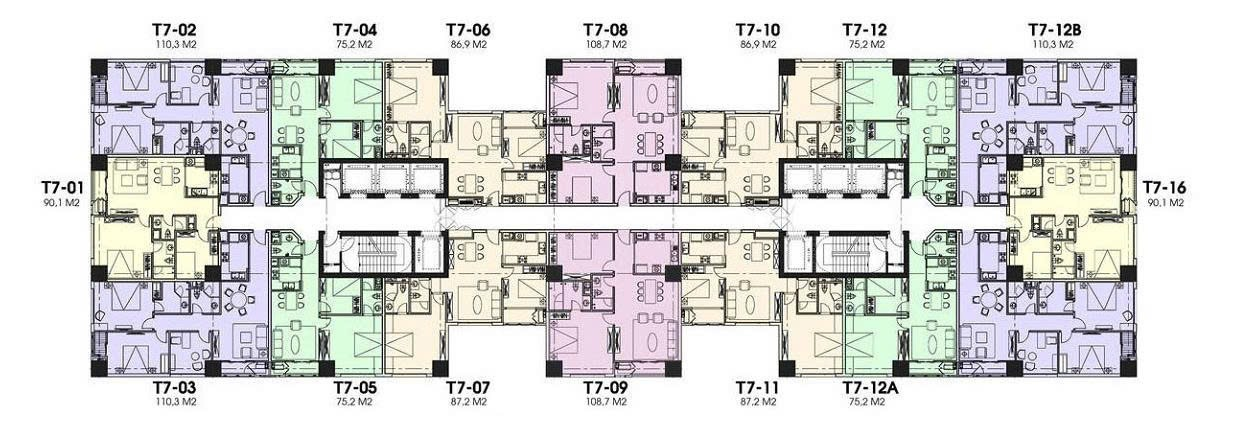
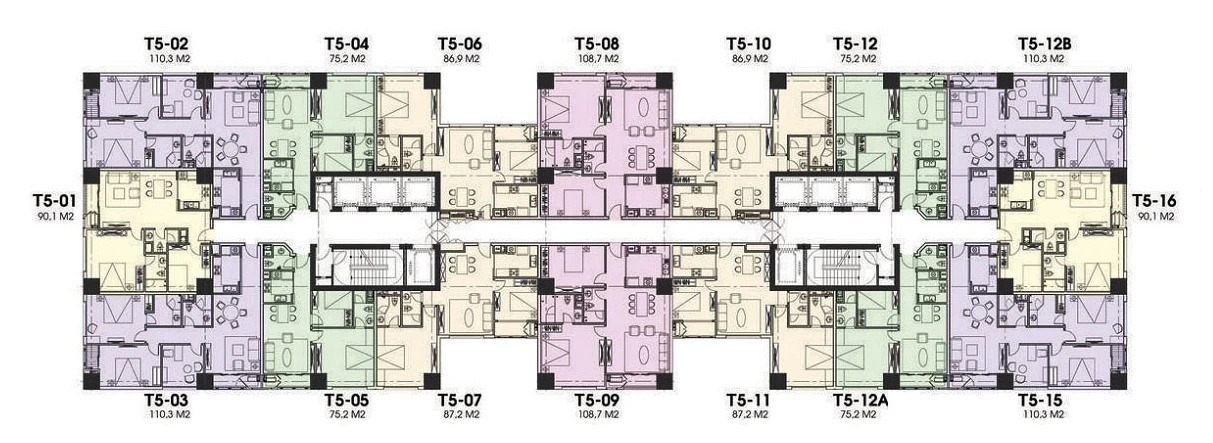
Give T5 and T6 their own plan images
Both now show their own labels instead of T7's. They keep T7's
hand-drawn boxes, mapped onto each image through the building outline,
and keep their images when T7 is re-imported.

diff --git a/src/data/matBangTruc.js b/src/data/matBangTruc.js
@@ -1647,198 +1647,198 @@ export default {
   },
   "T05": {
     "01": {
-      "h": 35.2,
-      "w": 16.93,
-      "x": 2.68,
-      "y": 33.82
+      "h": 33.42,
+      "w": 17.16,
+      "x": 2.16,
+      "y": 35.54
     },
     "02": {
-      "h": 46.77,
-      "w": 16.43,
-      "x": 6.73,
-      "y": 4.3
+      "h": 44.41,
+      "w": 16.65,
+      "x": 6.27,
+      "y": 7.51
     },
     "03": {
-      "h": 45.83,
-      "w": 17.74,
-      "x": 5.44,
-      "y": 52.01
+      "h": 43.52,
+      "w": 17.98,
+      "x": 4.96,
+      "y": 52.82
     },
     "04": {
-      "h": 48.42,
-      "w": 11.52,
-      "x": 20.52,
-      "y": 3.12
+      "h": 45.98,
+      "w": 11.68,
+      "x": 20.24,
+      "y": 6.39
     },
     "05": {
-      "h": 46.86,
-      "w": 11.74,
-      "x": 20.49,
-      "y": 51.42
+      "h": 44.5,
+      "w": 11.9,
+      "x": 20.21,
+      "y": 52.26
     },
     "06": {
-      "h": 48.42,
-      "w": 15.96,
-      "x": 29.99,
-      "y": 2.88
+      "h": 45.98,
+      "w": 16.18,
+      "x": 29.84,
+      "y": 6.16
     },
     "07": {
-      "h": 45.59,
-      "w": 15.54,
-      "x": 30.05,
-      "y": 51.78
+      "h": 43.29,
+      "w": 15.75,
+      "x": 29.9,
+      "y": 52.6
     },
     "08": {
-      "h": 47.39,
-      "w": 12.79,
-      "x": 43.4,
-      "y": 4.27
+      "h": 45.0,
+      "w": 12.96,
+      "x": 43.43,
+      "y": 7.48
     },
     "09": {
-      "h": 46.15,
-      "w": 13.53,
-      "x": 43.03,
-      "y": 51.42
+      "h": 43.82,
+      "w": 13.71,
+      "x": 43.06,
+      "y": 52.26
     },
     "10": {
-      "h": 48.42,
-      "w": 15.49,
-      "x": 54.1,
-      "y": 3.12
+      "h": 45.98,
+      "w": 15.7,
+      "x": 54.28,
+      "y": 6.39
     },
     "11": {
-      "h": 46.77,
-      "w": 15.39,
-      "x": 53.89,
-      "y": 51.78
+      "h": 44.41,
+      "w": 15.6,
+      "x": 54.07,
+      "y": 52.6
     },
     "12": {
-      "h": 48.35,
-      "w": 11.99,
-      "x": 66.69,
-      "y": 2.72
+      "h": 45.91,
+      "w": 12.15,
+      "x": 67.04,
+      "y": 6.01
     },
     "12A": {
-      "h": 46.3,
-      "w": 11.66,
-      "x": 67.04,
-      "y": 51.54
+      "h": 43.97,
+      "w": 11.82,
+      "x": 67.39,
+      "y": 52.37
     },
     "12B": {
-      "h": 50.95,
-      "w": 16.35,
-      "x": 76.27,
-      "y": 0.24
+      "h": 48.38,
+      "w": 16.57,
+      "x": 76.75,
+      "y": 3.66
     },
     "15": {
-      "h": 41.23,
-      "w": 16.51,
-      "x": 76.51,
-      "y": 50.47
+      "h": 39.15,
+      "w": 16.73,
+      "x": 76.99,
+      "y": 51.35
     },
     "16": {
-      "h": 36.5,
-      "w": 16.61,
-      "x": 80.38,
-      "y": 33.53
+      "h": 34.66,
+      "w": 16.84,
+      "x": 80.92,
+      "y": 35.27
     }
   },
   "T06": {
     "01": {
-      "h": 35.2,
-      "w": 16.93,
-      "x": 2.68,
-      "y": 33.82
+      "h": 32.98,
+      "w": 16.63,
+      "x": 3.49,
+      "y": 34.05
     },
     "02": {
-      "h": 46.77,
-      "w": 16.43,
-      "x": 6.73,
-      "y": 4.3
+      "h": 43.82,
+      "w": 16.13,
+      "x": 7.47,
+      "y": 6.39
     },
     "03": {
-      "h": 45.83,
-      "w": 17.74,
-      "x": 5.44,
-      "y": 52.01
+      "h": 42.94,
+      "w": 17.42,
+      "x": 6.2,
+      "y": 51.09
     },
     "04": {
-      "h": 48.42,
-      "w": 11.52,
-      "x": 20.52,
-      "y": 3.12
+      "h": 45.36,
+      "w": 11.31,
+      "x": 21.01,
+      "y": 5.29
     },
     "05": {
-      "h": 46.86,
-      "w": 11.74,
-      "x": 20.49,
-      "y": 51.42
+      "h": 43.9,
+      "w": 11.53,
+      "x": 20.98,
+      "y": 50.54
     },
     "06": {
-      "h": 48.42,
-      "w": 15.96,
-      "x": 29.99,
-      "y": 2.88
+      "h": 45.36,
+      "w": 15.67,
+      "x": 30.31,
+      "y": 5.06
     },
     "07": {
-      "h": 45.59,
-      "w": 15.54,
-      "x": 30.05,
-      "y": 51.78
+      "h": 42.71,
+      "w": 15.26,
+      "x": 30.37,
+      "y": 50.88
     },
     "08": {
-      "h": 47.39,
-      "w": 12.79,
-      "x": 43.4,
-      "y": 4.27
+      "h": 44.4,
+      "w": 12.56,
+      "x": 43.48,
+      "y": 6.37
     },
     "09": {
-      "h": 46.15,
-      "w": 13.53,
-      "x": 43.03,
-      "y": 51.42
+      "h": 43.24,
+      "w": 13.29,
+      "x": 43.12,
+      "y": 50.54
     },
     "10": {
-      "h": 48.42,
-      "w": 15.49,
-      "x": 54.1,
-      "y": 3.12
+      "h": 45.36,
+      "w": 15.21,
+      "x": 53.99,
+      "y": 5.29
     },
     "11": {
-      "h": 46.77,
-      "w": 15.39,
-      "x": 53.89,
-      "y": 51.78
+      "h": 43.82,
+      "w": 15.11,
+      "x": 53.78,
+      "y": 50.88
     },
     "12": {
-      "h": 48.35,
-      "w": 11.99,
-      "x": 66.69,
-      "y": 2.72
+      "h": 45.3,
+      "w": 11.77,
+      "x": 66.35,
+      "y": 4.91
     },
     "12A": {
-      "h": 46.3,
-      "w": 11.66,
-      "x": 67.04,
-      "y": 51.54
+      "h": 43.38,
+      "w": 11.45,
+      "x": 66.7,
+      "y": 50.65
     },
     "12B": {
-      "h": 50.95,
-      "w": 16.35,
-      "x": 76.27,
-      "y": 0.24
+      "h": 47.74,
+      "w": 16.06,
+      "x": 75.76,
+      "y": 2.59
     },
     "15": {
-      "h": 41.23,
-      "w": 16.51,
-      "x": 76.51,
-      "y": 50.47
+      "h": 38.63,
+      "w": 16.21,
+      "x": 76.0,
+      "y": 49.65
     },
     "16": {
-      "h": 36.5,
-      "w": 16.61,
-      "x": 80.38,
-      "y": 33.53
+      "h": 34.2,
+      "w": 16.31,
+      "x": 79.8,
+      "y": 33.78
     }
   },
   "T07": {

diff --git a/scripts/catTrucMatBang.py b/scripts/catTrucMatBang.py
@@ -422,7 +422,7 @@ GIONG = {
 # mẫu, khớp sang ảnh riêng bằng viền tòa (ảnh hai tòa cắt / zoom khác nhau). Ảnh riêng
 # không bao giờ bị ảnh tòa mẫu ghi đè. Thêm ảnh riêng:
 #   python scripts/catTrucMatBang.py T08 --nen "C:\...\T08.jpg"
-NEN_RIENG = {"T08"}
+NEN_RIENG = {"T08", "T05", "T06"}
 
 
 def khop_toa_do(toa_do_mau, im_mau, im_dich):
